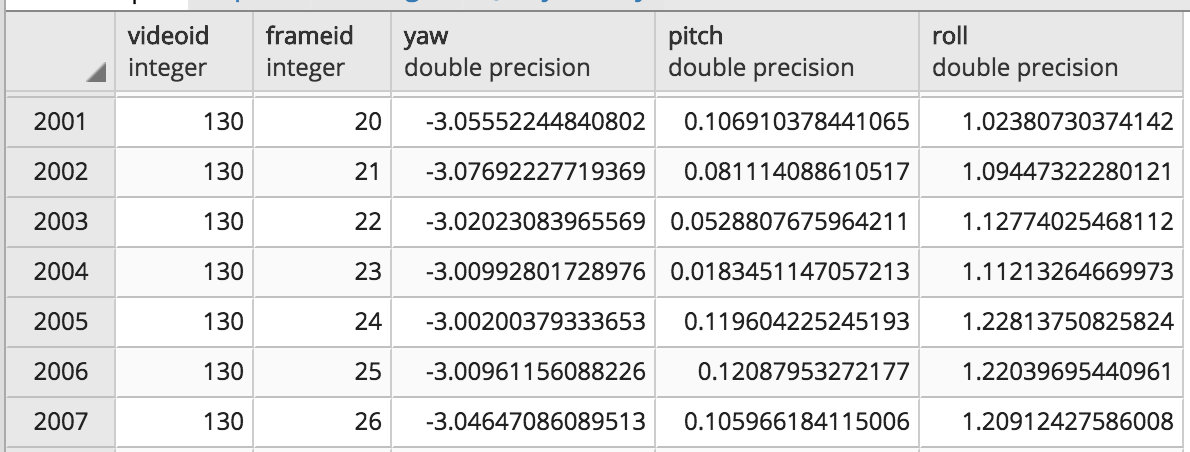
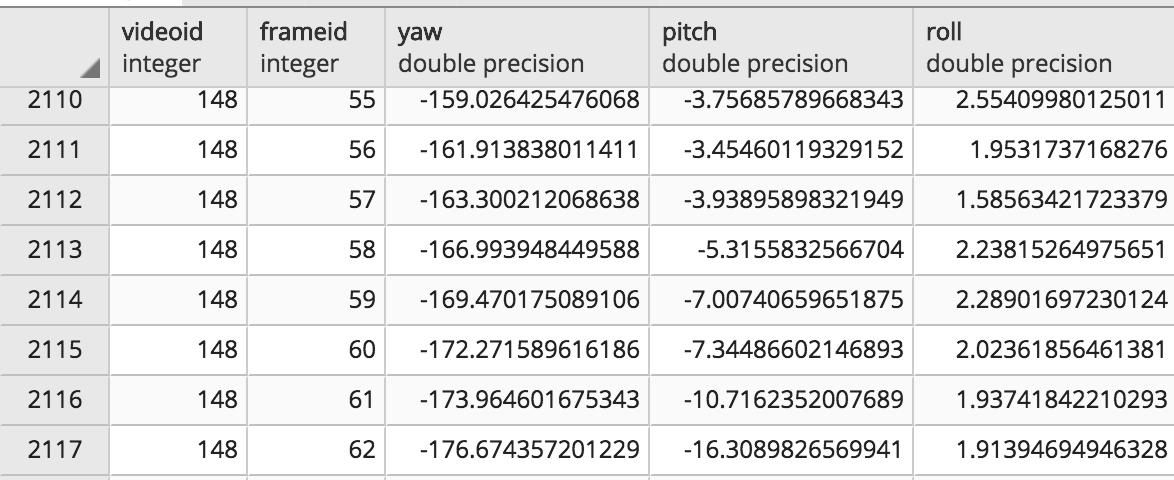
fixed ypr

Changed region(s): [[0.0, 0.0, 1.0, 0.9912]]

diff --git a/iviato-pipeline/landmark-detection/landmarks.py b/iviato-pipeline/landmark-detection/landmarks.py
@@ -152,42 +152,18 @@ def getYPRLine(size,shape, image, isShinobi):
      
     dist_coeffs = np.zeros((4,1)) # Assuming no lens distortion
     (success, rotation_vector, translation_vector) = cv2.solvePnP(model_points, image_points, camera_matrix, dist_coeffs, flags=cv2.SOLVEPNP_ITERATIVE)
-     
+    print ("Success: \n {0}".format(success))
     print ("Rotation Vector:\n {0}".format(rotation_vector))
-    # print ("Translation Vector:\n {0}".format(translation_vector))
-     
-     
-    # Project a 3D point (0, 0, 1000.0) onto the image plane.
-    # We use this to draw a line sticking out of the nose
-     
-    R = eulerAnglesToRotationMatrix([success, rotation_vector, translation_vector]) 
-     
+    rvec_matrix = cv2.Rodrigues(rotation_vector)[0]
+    proj_matrix = np.hstack((rvec_matrix, translation_vector))
+    eulerAngles = -cv2.decomposeProjectionMatrix(proj_matrix)[6]
+    print ("Translation Vector:\n {0}".format(translation_vector))
+    print(eulerAngles)
     # Display image
-    return rotation_vector
+    return eulerAngles
 
-def eulerAnglesToRotationMatrix(theta) :
-     
-    R_x = np.array([[1,         0,                  0                   ],
-                    [0,         np.cos(theta[0]), -np.sin(theta[0]) ],
-                    [0,         np.sin(theta[0]), np.cos(theta[0])  ]
-                    ])
-         
-         
-                     
-    R_y = np.array([[np.cos(theta[1]),    0,      np.sin(theta[1])  ],
-                    [0,                     1,      0                   ],
-                    [-np.sin(theta[1]),   0,      np.cos(theta[1])  ]
-                    ])
-                 
-    R_z = np.array([[np.cos(theta[2]),    -np.sin(theta[2]),    0],
-                    [np.sin(theta[2]),    np.cos(theta[2]),     0],
-                    [0,                     0,                      1]
-                    ])
-                     
-                     
-    R = np.dot(R_z, np.dot( R_y, R_x ))
-    print (R)
-    return R
+
+
 def makeShinobi(image, shape):
     w = image.shape[0]
     h = image.shape[1]

diff --git a/iviato-pipeline/landmark-detection/db.py b/iviato-pipeline/landmark-detection/db.py
@@ -42,6 +42,7 @@ def write_skull(video_id, skullList):
     cursor = conn.cursor()  
     for i in range(0, len(skullList)):
         insert = 'INSERT INTO develop."skull"(videoid, frameid, yaw, pitch, roll ) VALUES ({0}, {1}, {2}, {3}, {4});'.format(video_id, i, skullList[i][0][0], skullList[i][1][0], skullList[i][2][0])
+        print(insert)
         cursor.execute(insert)
     conn.commit()
     conn.close()   
